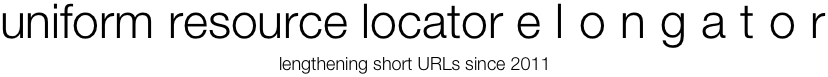
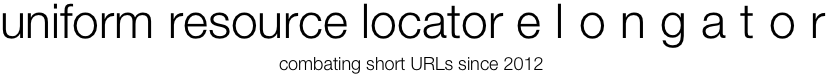
Changing direction...

Changed region(s): [[0.3321, 0.7273, 0.6643, 0.961]]

diff --git a/public/index.css b/public/index.css
@@ -1,0 +1,102 @@
+body {
+  font-family: "HelveticaNeue","Helvetica Neue",Helvetica,Arial,sans-serif;
+  background-color: #fff;
+  padding-top: 60px;
+}
+
+#elongate {
+  margin-left: 10px;
+}
+
+.container {
+  text-align: center;
+  width: 960px;
+  margin: auto;
+}
+h1 small {
+  font-size: 0.4em;
+  font-style: italic;
+}
+.lengthen {
+  margin: auto;
+  padding-top: 50px;
+  width: 800px;
+}
+.lengthen p {
+  font-size: 26px;
+}
+input {
+  margin: 0em;
+  font: -webkit-small-control;
+  color: initial;
+  letter-spacing: normal;
+  word-spacing: normal;
+  line-height: normal;
+  text-transform: none;
+  text-indent: 0px;
+  text-shadow: none;
+  display: inline-block;
+  text-align: -webkit-auto;
+  -webkit-appearance: textfield;
+  padding: 1px;
+  background-color: white;
+  border: 2px inset;
+  border-image: initial;
+  -webkit-rtl-ordering: logical;
+  -webkit-user-select: text;
+  cursor: auto;
+  margin: 0;
+  vertical-align: baseline;
+  height: 35px;
+  padding: 4px;
+  font-size: 25px;
+  line-height: 35px;
+  color: #333;
+  border: 1px solid #888;
+  -webkit-border-radius: 3px;
+  -moz-border-radius: 3px;
+  border-radius: 3px;
+  -webkit-transition: border linear 0.2s, box-shadow linear 0.2s;
+  -moz-transition: border linear 0.2s, box-shadow linear 0.2s;
+  -ms-transition: border linear 0.2s, box-shadow linear 0.2s;
+  -o-transition: border linear 0.2s, box-shadow linear 0.2s;
+  transition: border linear 0.2s, box-shadow linear 0.2s;
+  -webkit-box-shadow: inset 0 1px 3px rgba(0, 0, 0, 0.1);
+  -moz-box-shadow: inset 0 1px 3px rgba(0, 0, 0, 0.1);
+  box-shadow: inset 0 1px 3px rgba(0, 0, 0, 0.1);
+  width: 600px;
+}
+
+/* Google CSS Buttons */
+
+a.button {
+    color: #6e6e6e;
+    font: bold 20px Helvetica, Arial, sans-serif;
+    text-decoration: none;
+    padding: 15px 20px;
+    position: relative;
+    display: inline-block;
+    text-shadow: 0 1px 0 #fff;
+    -webkit-transition: border-color .218s;
+    -moz-transition: border .218s;
+    -o-transition: border-color .218s;
+    transition: border-color .218s;
+    background: #f3f3f3;
+    background: -webkit-gradient(linear,0% 40%,0% 70%,from(#F5F5F5),to(#F1F1F1));
+    background: -moz-linear-gradient(linear,0% 40%,0% 70%,from(#F5F5F5),to(#F1F1F1));
+    border: solid 1px #dcdcdc;
+    border-radius: 2px;
+    -webkit-border-radius: 2px;
+    -moz-border-radius: 2px;
+    height: 18px;
+}
+a.button:hover {
+    color: #333;
+    border-color: #999;
+    -moz-box-shadow: 0 2px 0 rgba(0, 0, 0, 0.2) -webkit-box-shadow:0 2px 5px rgba(0, 0, 0, 0.2);
+    box-shadow: 0 1px 2px rgba(0, 0, 0, 0.15);
+}
+a.button:active {
+    color: #000;
+    border-color: #444;
+}

diff --git a/app.rb b/app.rb
@@ -1,72 +1,21 @@
 require 'sinatra'
 require 'slim'
-require 'redis'
 require 'json'
-require 'rest-client'
-require 'cgi'
-
-configure :development do
-  uri = URI.parse('redis://localhost:6379')
-  REDIS = Redis.new(:host => uri.host, :port => uri.port, :password => uri.password)
-end
-
-configure :production do
-  uri = URI.parse(ENV["REDISTOGO_URL"])
-  REDIS = Redis.new(:host => uri.host, :port => uri.port, :password => uri.password)
-end
-
-helpers do
-  def parse_urls
-    urls = {}
-    for param in (request.query_string || '').split("&")
-      values = param.split("=")
-      next if values[0].nil? or values[1].nil?
-      url = values[0].downcase
-      next if url != 'url'
-
-      urls[CGI::unescape(values[1].strip)] = nil
-    end
-
-    return urls
-  end
-
-  def resolve_url(url)
-    resolved_url = url
-    RestClient.head(url) do |response, request, result, &block|
-      resolved_url = response.headers[:location] if response.code == 301
-    end
-    return resolved_url
-  end
-
-  def browser
-    return "chrome" if request.user_agent =~ /chrome/i
-    return "firefox" if request.user_agent =~ /firefox/i
-    return "safari" if request.user_agent =~ /safari/i
-  end
-end
+require 'base64'
 
 get '/' do
   slim :index
 end
 
-get '/expand' do
-  urls = parse_urls
-  return if urls.empty?
+get '/elongate' do
+  content_type 'application/json'
+  {
+    :original_url => params[:url],
+    :elongated_url => Base64.strict_encode64(params[:url])
+  }.to_json
+end
 
-  keys = urls.map { |key,value| "url:#{key}" }
-  resolved_urls = REDIS.mget *keys  # <- mget takes params, not an array
-  REDIS.multi do
-    urls.each_with_index do |pair, index|
-      if resolved_urls[index].nil?
-        resolved = resolve_url(pair[0])
-        urls[pair[0]] = resolved
-        REDIS.set "url:#{pair[0]}", resolved
-      else
-        urls[pair[0]] = resolved_urls[index]
-      end
-    end
-  end
-
-  content_type :json
-  urls.to_json
+get '/:longurl' do
+  url = Base64.strict_decode64(params[:longurl])
+  redirect url
 end
